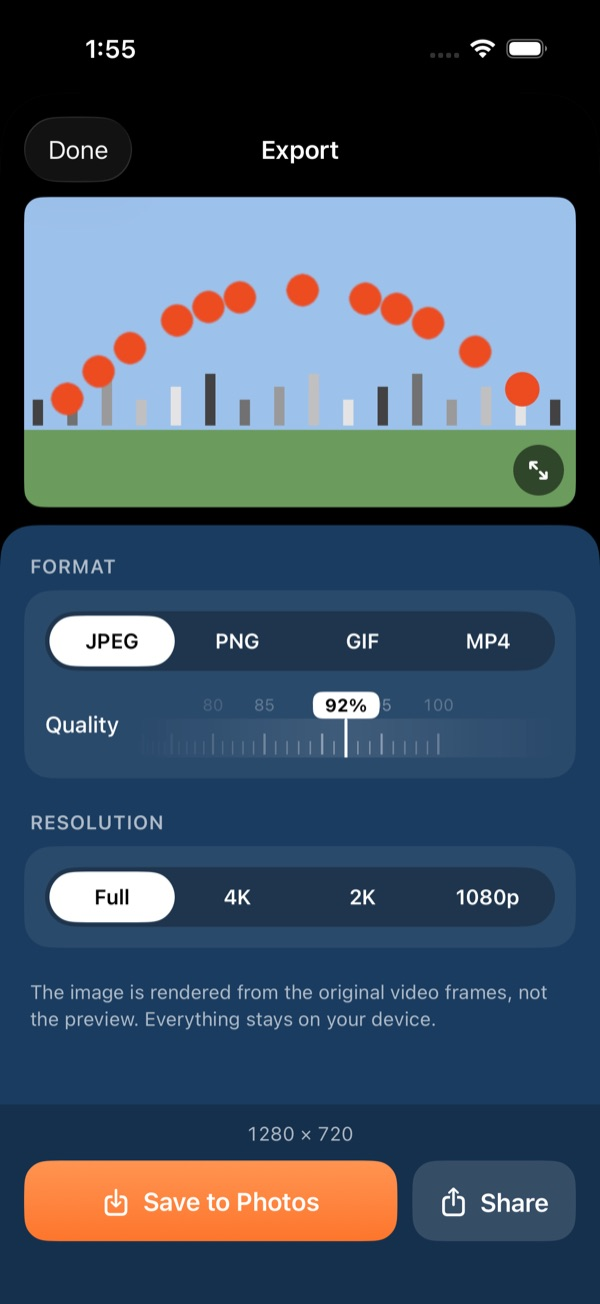
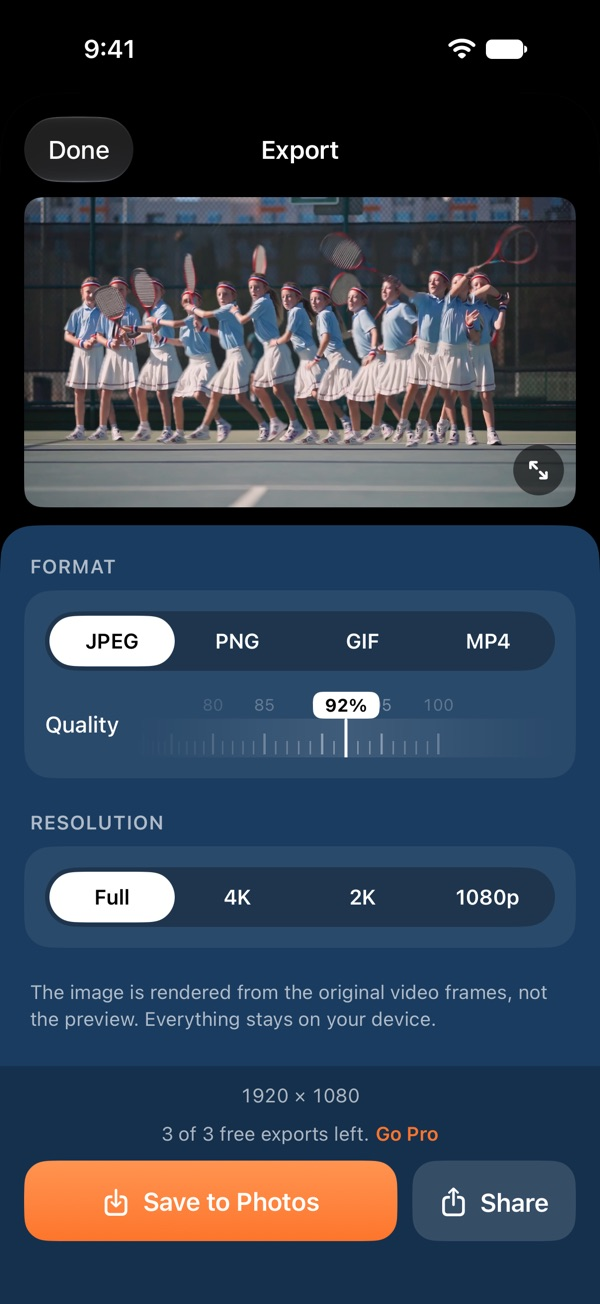
Screenshots from real tennis and volleyball clips

diff --git a/index.html b/index.html
@@ -246,7 +246,7 @@ footer { border-top: 1px solid var(--line); margin-top: 64px; padding-top: 20px;
     <figure class="shot"><img src="images/sequence.jpg" alt="Editor showing the finished sequence of positions over one background" width="600" height="1304"><figcaption>2 · Edit the sequence</figcaption></figure>
     <figure class="shot"><img src="images/export-still.jpg" alt="Export sheet with format and resolution choices" width="600" height="1304"><figcaption>3 · Export</figcaption></figure>
   </div>
-  <p style="color:var(--muted);font-size:14px">Screenshots use a generated sample clip (an orange ball jumping across a field) so the menus are easy to see. With a real clip, the ball is your athlete.</p>
+  <p style="color:var(--muted);font-size:14px">Screenshots use two real clips: a tennis forehand and a beach volleyball player.</p>
 </div>
 
 <section id="what">
